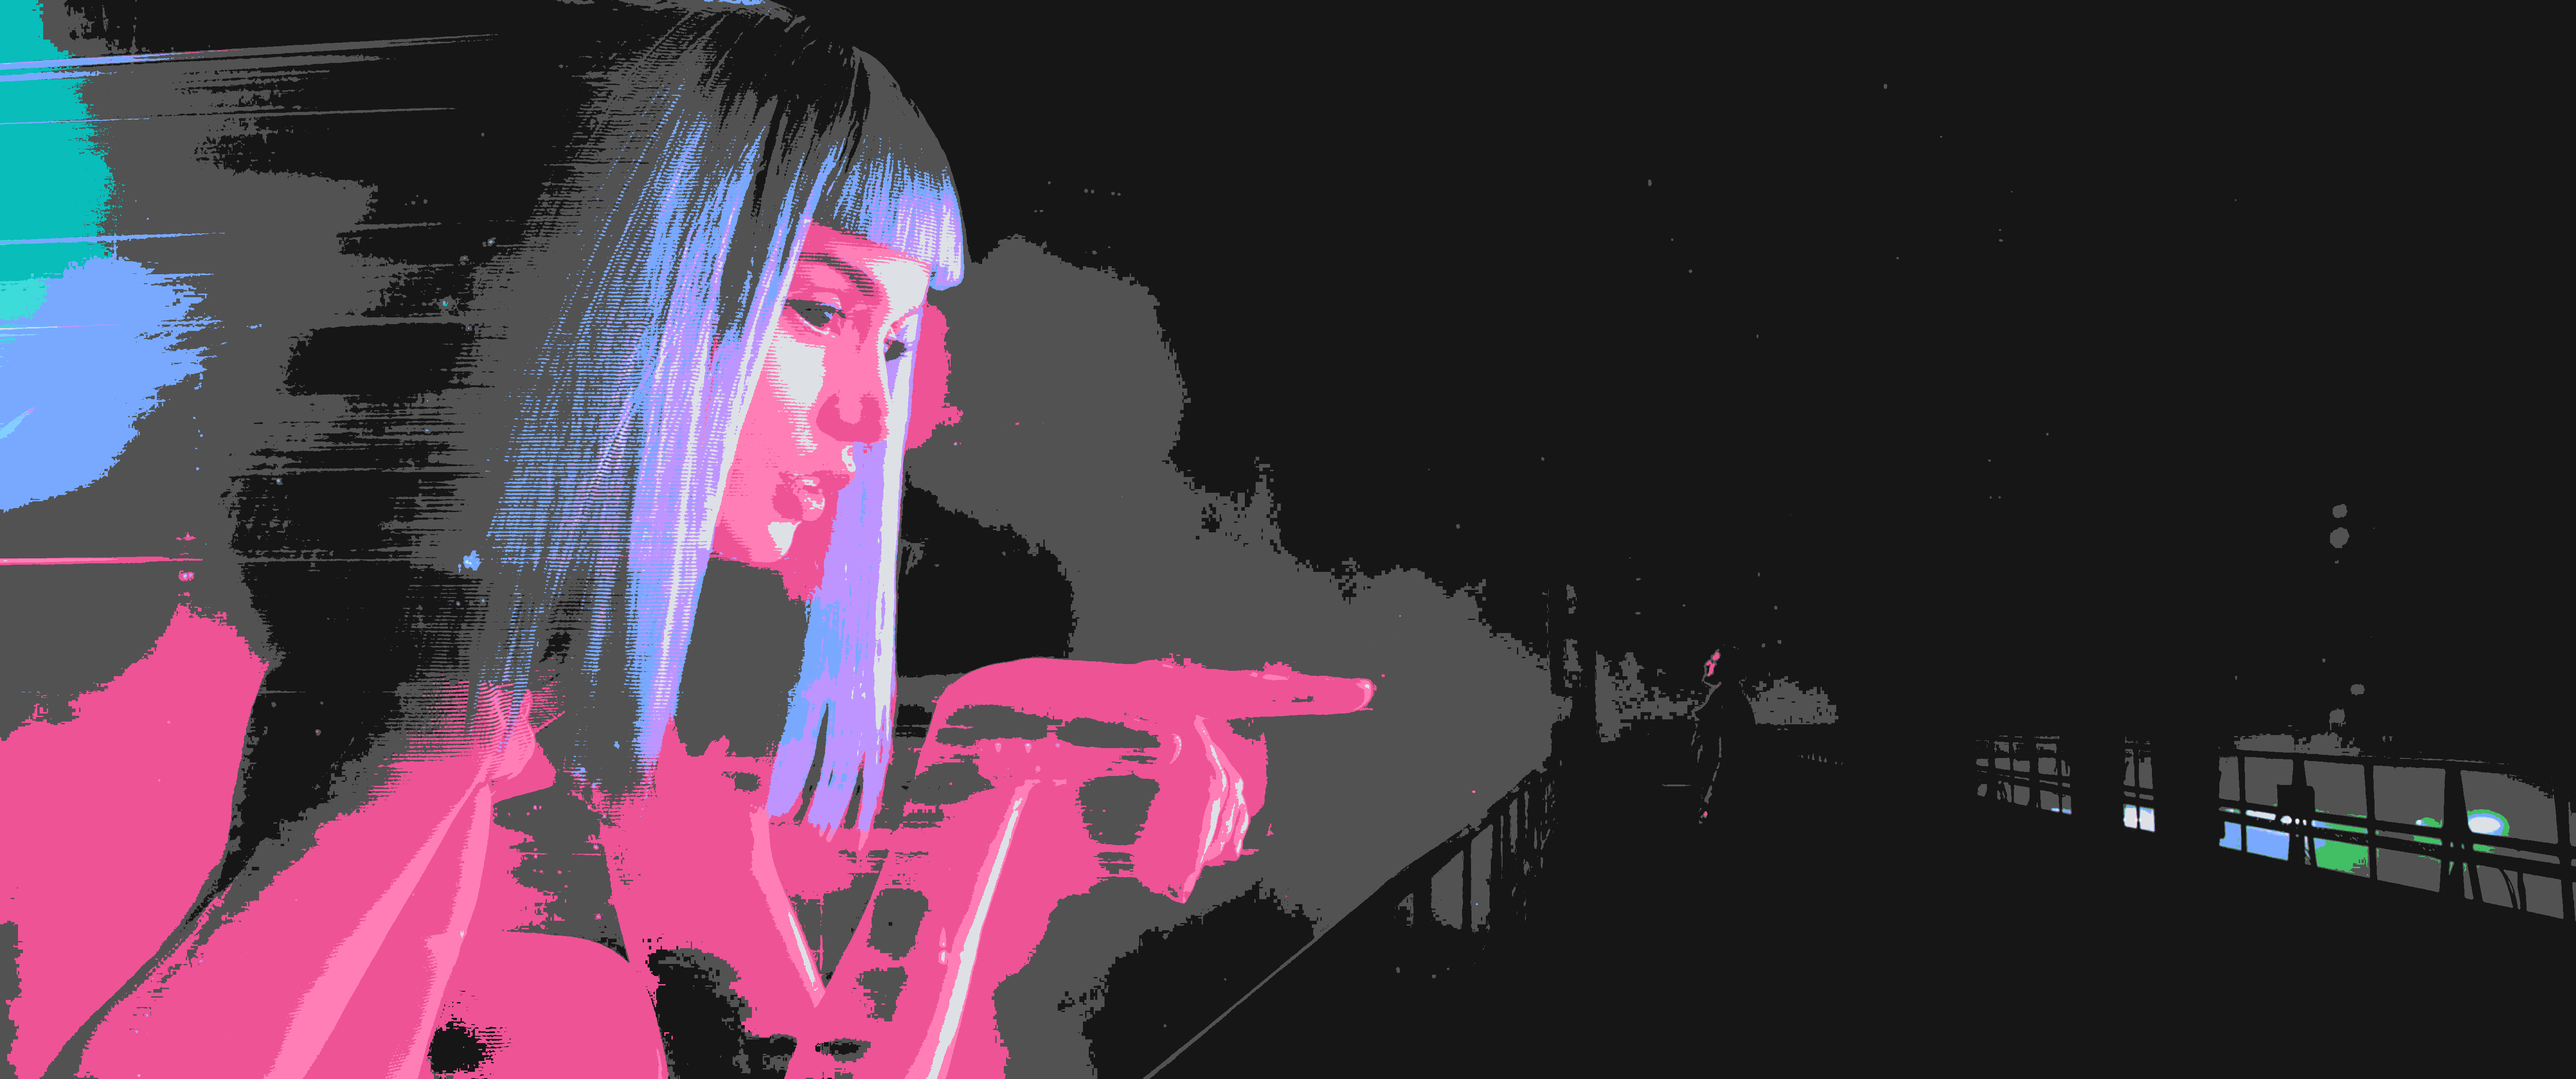
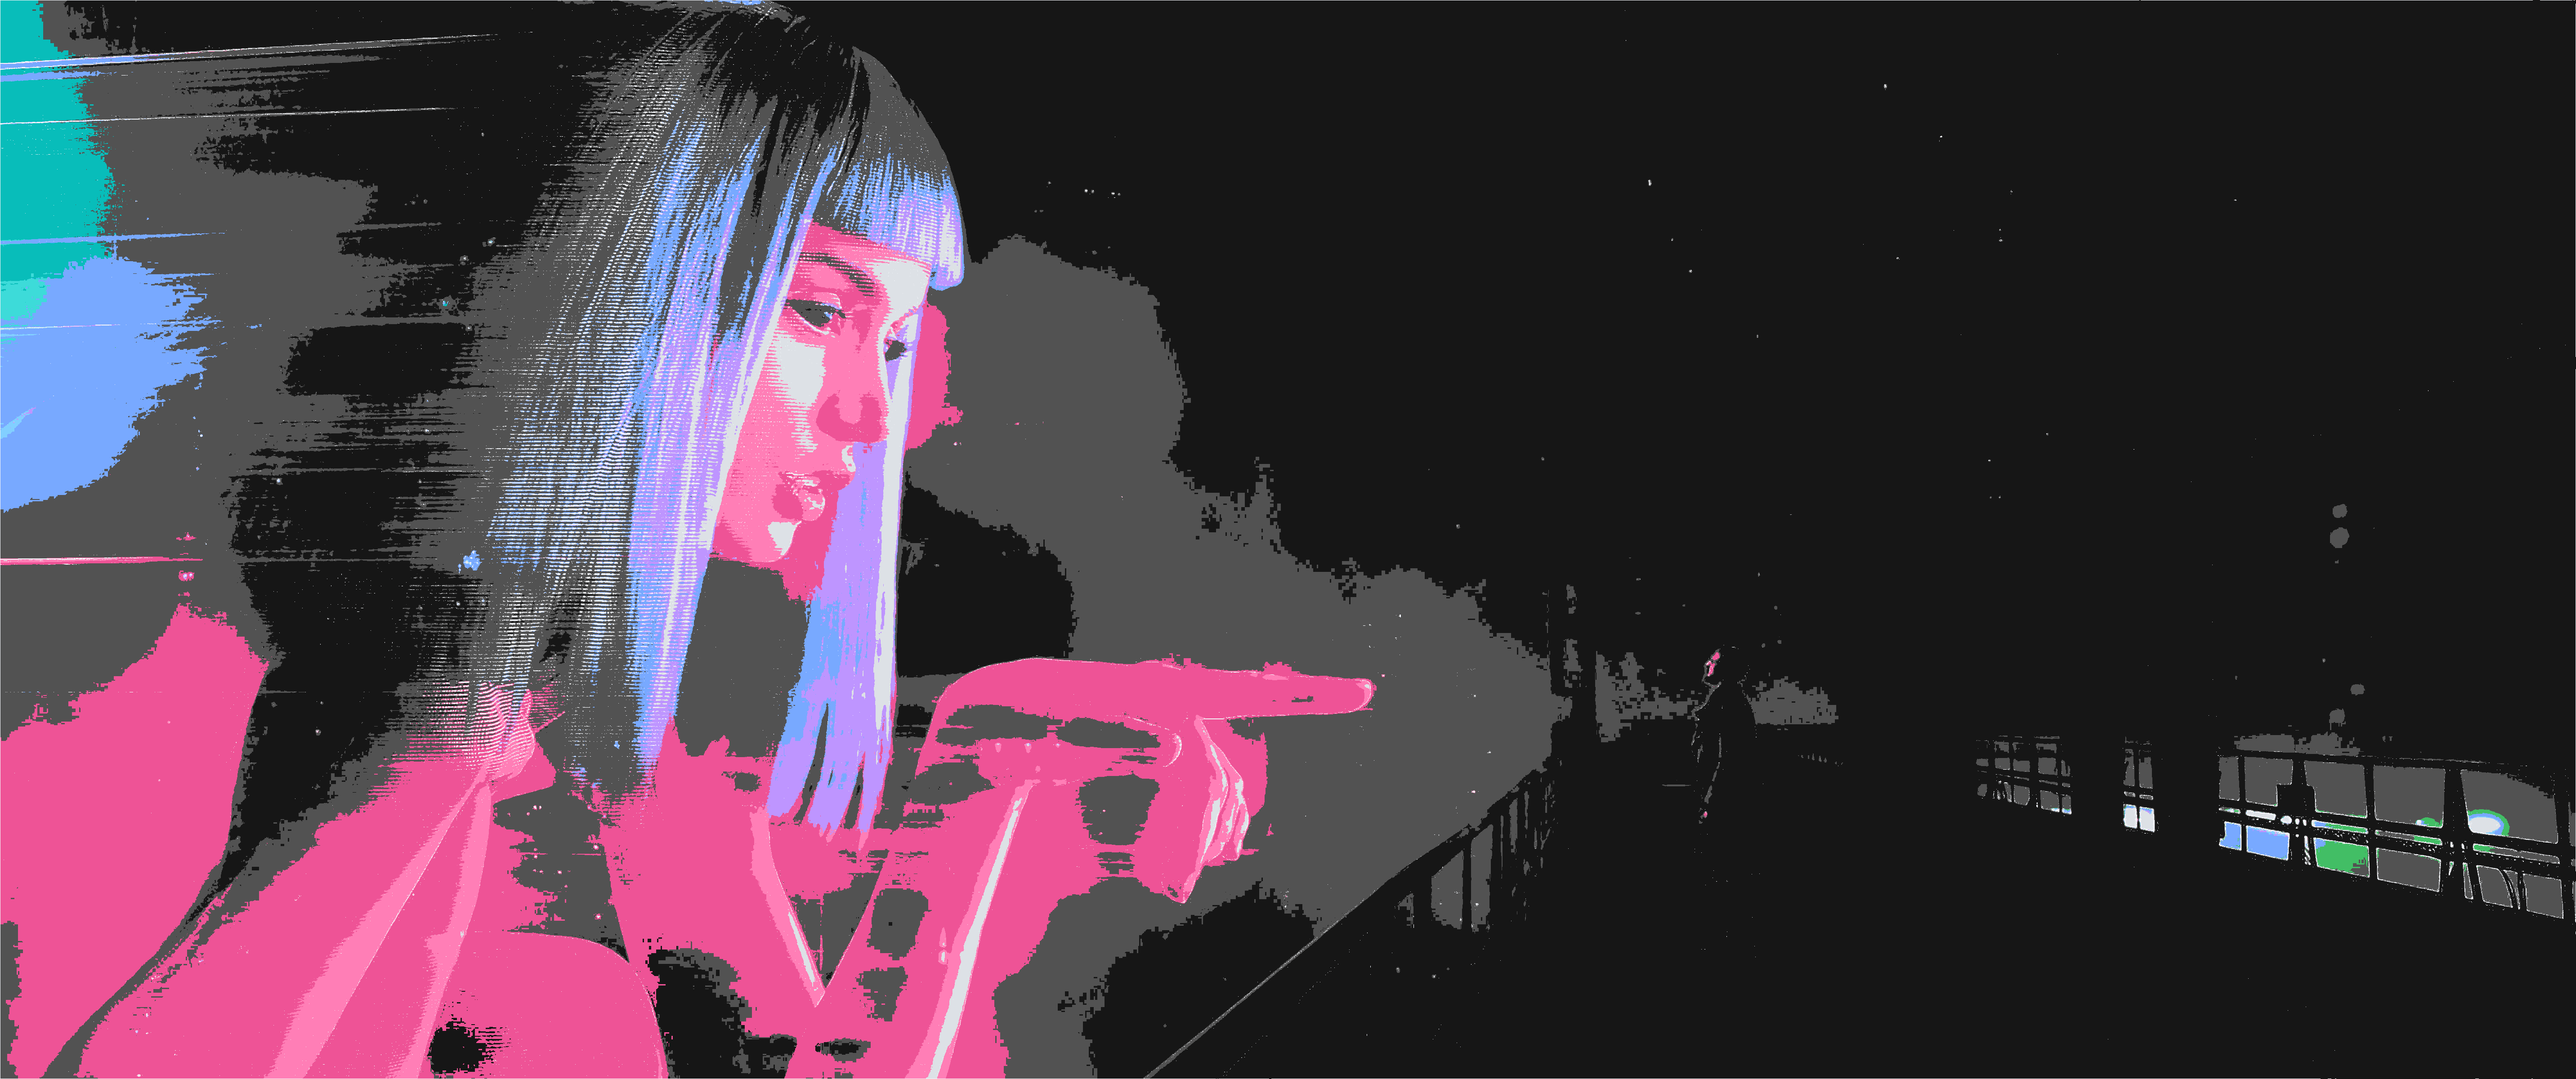
add edge detection

Changed region(s): [[0.1562, 0.0938, 0.2812, 0.6875]]

diff --git a/script.py b/script.py
@@ -1,15 +1,6 @@
-from PIL import Image
-import numpy as np
-
-def hex_to_rgb(hex_str):
-    return tuple(int(hex_str[i:i+2], 16) for i in (0, 2, 4))
-
-def parse_base16_conf(filepath):
-    palette = []
-    background = (0, 0, 0)  # fallback
 #!/usr/bin/env python3
 import argparse
-from PIL import Image
+from PIL import Image, ImageFilter
 import numpy as np
 
 def hex_to_rgb(hex_str):
@@ -17,7 +8,8 @@ def hex_to_rgb(hex_str):
 
 def parse_base16_conf(filepath):
     palette = []
-    background = (0, 0, 0)  # default fallback
+    background = (0, 0, 0)
+    foreground = (255, 255, 255)
     with open(filepath, 'r') as f:
         for line in f:
             line = line.strip()
@@ -27,16 +19,17 @@ def parse_base16_conf(filepath):
             elif line.startswith('$background='):
                 _, hex_value = line.split('=')
                 background = hex_to_rgb(hex_value.strip())
-    return palette[:16], background
+            elif line.startswith('$foreground='):
+                _, hex_value = line.split('=')
+                foreground = hex_to_rgb(hex_value.strip())
+    return palette[:16], background, foreground
 
 def brightness(pixel):
     return 0.299 * pixel[0] + 0.587 * pixel[1] + 0.114 * pixel[2]
 
-def quantize_to_base16_with_background(image_path, palette, background, output_path, threshold=None):
-    img = Image.open(image_path).convert("RGB")
-    data = np.array(img)
+def quantize_to_base16(image, palette, background, threshold=None):
+    data = np.array(image)
     shape = data.shape
-
     palette_np = np.array(palette)
     background_np = np.array(background)
 
@@ -48,21 +41,45 @@ def quantize_to_base16_with_background(image_path, palette, background, output_p
 
     pixels = data.reshape(-1, 3)
     quantized_pixels = np.array([nearest_color(p) for p in pixels], dtype=np.uint8)
-    quantized_img = quantized_pixels.reshape(shape)
-    Image.fromarray(quantized_img).save(output_path)
-    print(f"Saved quantized image to {output_path}")
+    return Image.fromarray(quantized_pixels.reshape(shape))
+
+def apply_foreground_edges(original_img, quantized_img, foreground_rgb, edge_strength=20):
+    edges = original_img.convert("L").filter(ImageFilter.FIND_EDGES)
+    edges_np = np.array(edges)
+    edge_mask = edges_np > edge_strength
+
+    quantized_np = np.array(quantized_img)
+    quantized_np[edge_mask] = foreground_rgb
+    return Image.fromarray(quantized_np)
 
 def main():
-    parser = argparse.ArgumentParser(description="Quantize image to Base16 palette with optional dark pixel collapsing.")
+    parser = argparse.ArgumentParser(description="Quantize image to Base16 palette with optional dark collapsing and edge highlighting.")
     parser.add_argument("image", help="Path to input image")
     parser.add_argument("conf", help="Path to Base16 .conf palette")
     parser.add_argument("output", help="Path to save output image")
-    parser.add_argument("--threshold", type=int, default=None, help="Collapse pixels with brightness below this to $background (0-255)")
+
+    parser.add_argument("--threshold", type=int, default=None,
+                        help="Collapse pixels with brightness below this to $background (0-255)")
+    parser.add_argument("--edges", action="store_true",
+                        help="Highlight edges with $foreground color")
+    parser.add_argument("--edge-strength", type=int, default=20,
+                        help="Edge detection threshold for edge highlighting (default: 20)")
 
     args = parser.parse_args()
 
-    palette, background = parse_base16_conf(args.conf)
-    quantize_to_base16_with_background(args.image, palette, background, args.output, args.threshold)
+    # Load config and image
+    palette, background, foreground = parse_base16_conf(args.conf)
+    original_img = Image.open(args.image).convert("RGB")
+
+    # Quantize with optional threshold
+    quantized_img = quantize_to_base16(original_img, palette, background, args.threshold)
+
+    # Apply edge overlay if needed
+    if args.edges:
+        quantized_img = apply_foreground_edges(original_img, quantized_img, foreground, args.edge_strength)
+
+    quantized_img.save(args.output)
+    print(f"Saved quantized image to {args.output}")
 
 if __name__ == "__main__":
     main()

diff --git a/README.md b/README.md
@@ -1,7 +1,14 @@
 Usage:
 
 ```
-python base16_quantizer.py wallpaper.jpg theme.conf output.png --threshold 40
+# Basic quantization
+python base16_quantizer.py wallpaper.jpg theme.conf out.png
+
+# Collapse dark pixels below brightness 40
+python base16_quantizer.py wallpaper.jpg theme.conf out.png --threshold 40
+
+# Highlight edges using $foreground (with optional edge threshold)
+python base16_quantizer.py wallpaper.jpg theme.conf out.png --edges --edge-strength 25
 ```
 
 - Omit --threshold to disable collapsing.
